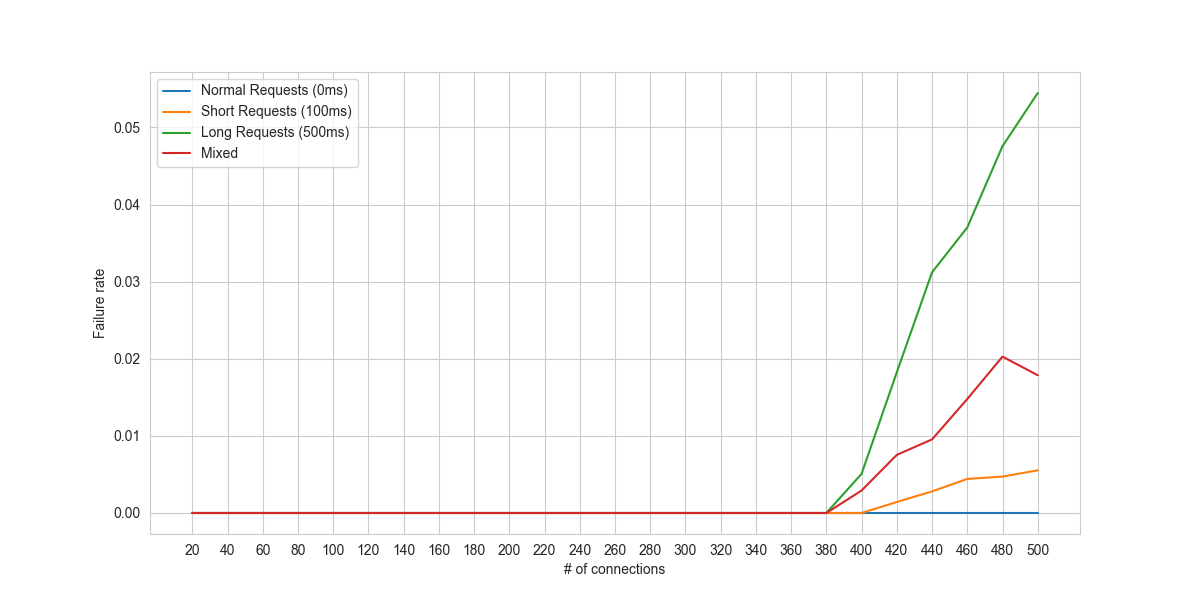
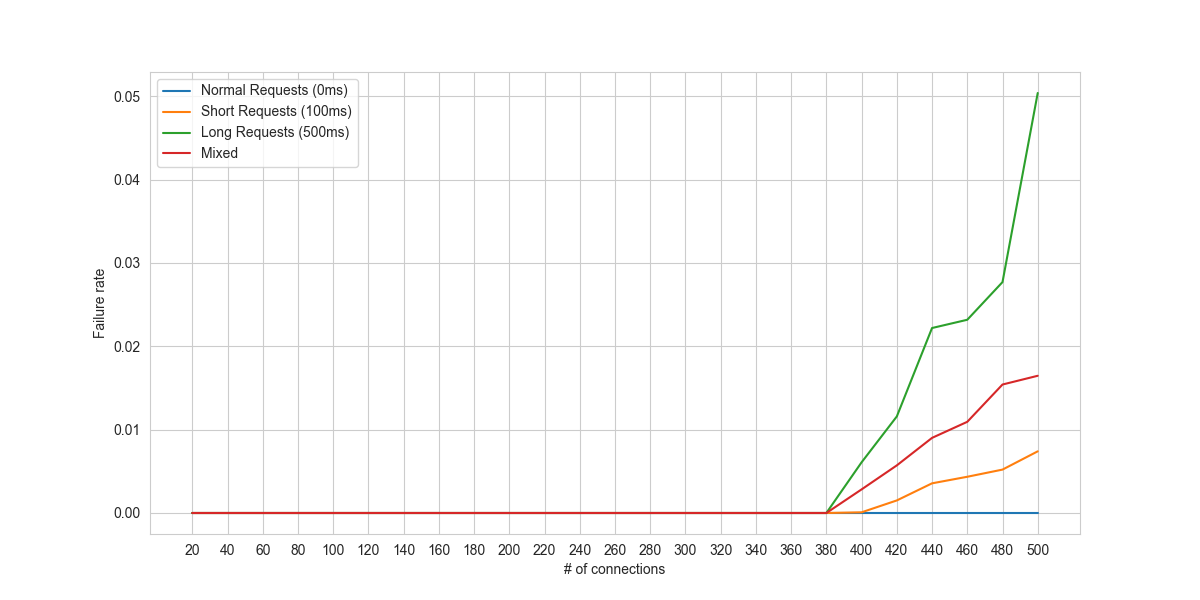
update mq size

diff --git a/stats/plot.py b/stats/plot.py
@@ -1,37 +1,34 @@
 from matplotlib import pyplot as plt
 import seaborn as sns
+import numpy as np
 
-REQLAT_PATH = './reqlat'
+REQLAT_PATH = './reqlat.ds.2'
 
 
-def plot():
+def plot(tp=0):
     sns.set_style('whitegrid')
     plt.figure(figsize=(12, 6))
     plt.xlabel('# of connections')
-    plt.ylabel('Failure rate')
-    # plt.ylabel('Latency (ms)')
+    ylabel = ['Failure rate', 'Latency (ms)', 'Throughput(req/s)']
+    plt.ylabel(ylabel[tp])
+
     dataset = [list(map(float, v.split()))
                for v in open(REQLAT_PATH, 'r').readlines()]
-    frate, lat = [], []
+    dataset = np.array(dataset)
+
     xticks = list(range(20, 501, 20))
     plt.xticks(xticks)
 
-    idx = 0
-    for _ in range(4):
-        tf, tl = [], []
-        for _ in range(20, 501, 20):
-            tf.append(dataset[idx][0])
-            tl.append(dataset[idx][1])
-            idx += 1
-        frate.append(tf)
-        lat.append(tl)
     labels = ['Normal Requests (0ms)', 'Short Requests (100ms)',
               'Long Requests (500ms)', 'Mixed']
-    for i in range(4):
-        sns.lineplot(x=xticks, y=frate[i], label=labels[i])
 
-    plt.savefig('failrate.png')
+    for i in range(4):
+        sns.lineplot(x=xticks, y=dataset[:, tp]
+                     [i*len(xticks): (i+1)*len(xticks)], label=labels[i])
+    fname = ['failrate.png', 'reqlatency.png', 'throughput.png']
+    plt.savefig(fname[tp])
 
 
 if __name__ == "__main__":
-    plot()
+    for i in range(3):
+        plot(i)

diff --git a/client/benchmark.go b/client/benchmark.go
@@ -122,7 +122,7 @@ func min(a, b int) int {
 
 func reqlatency(numCon, numReq, conType int) {
 
-	message := make(chan Status)
+	message := make(chan Status, numCon*numReq)
 	status := make(map[int][]float32)
 	url := flag.Arg(0)
 	start := time.Now()
